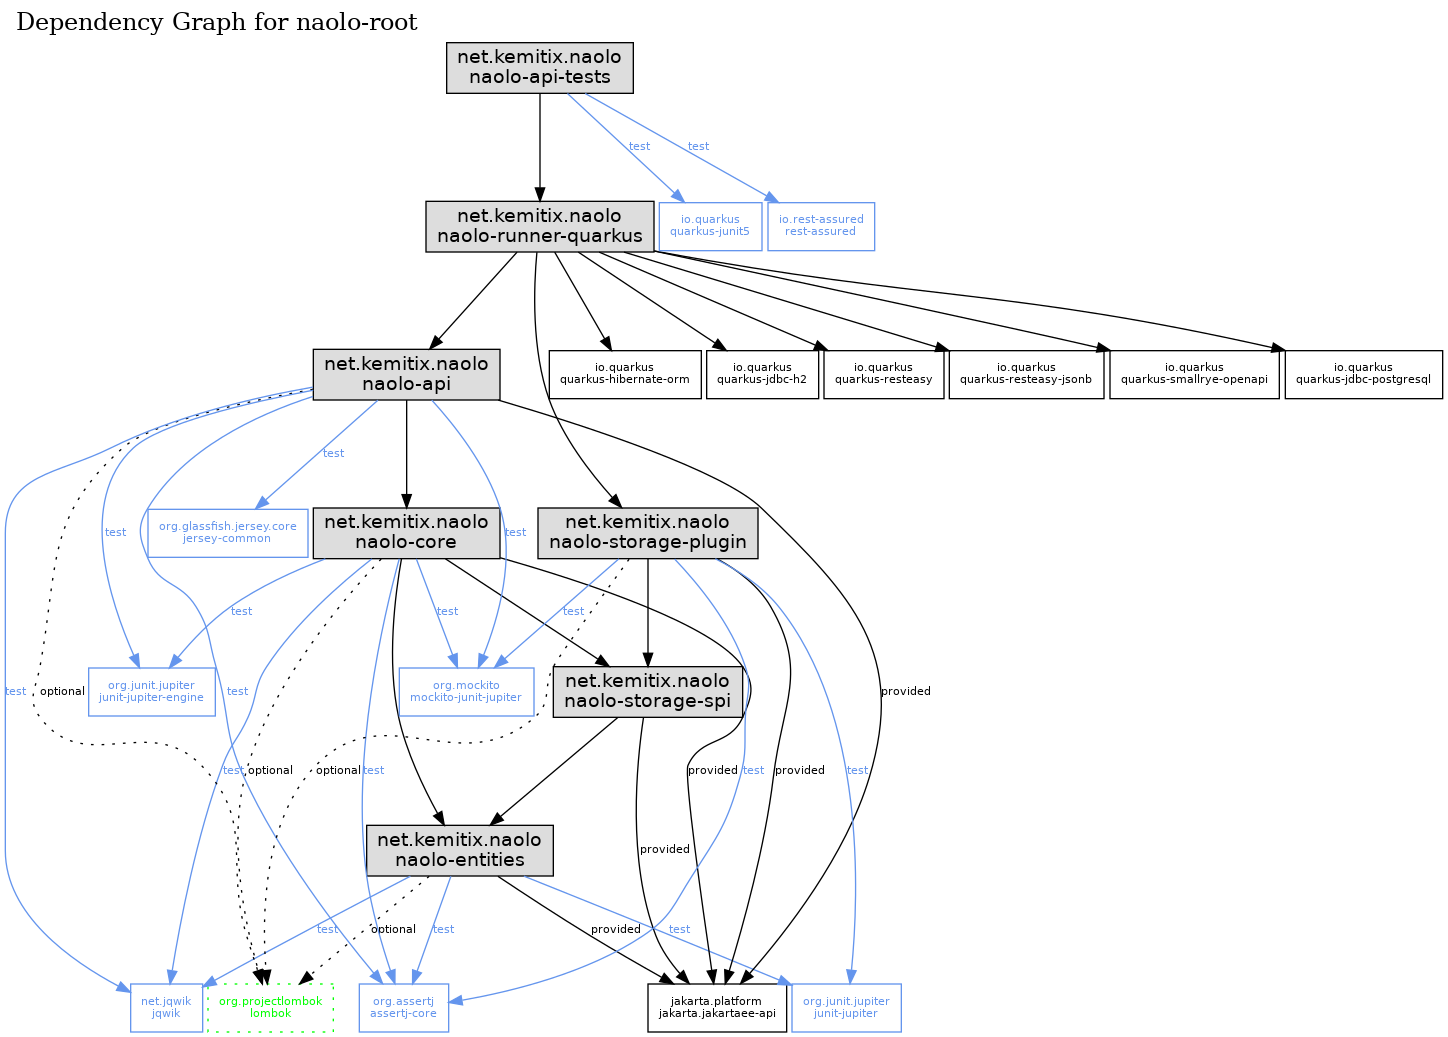
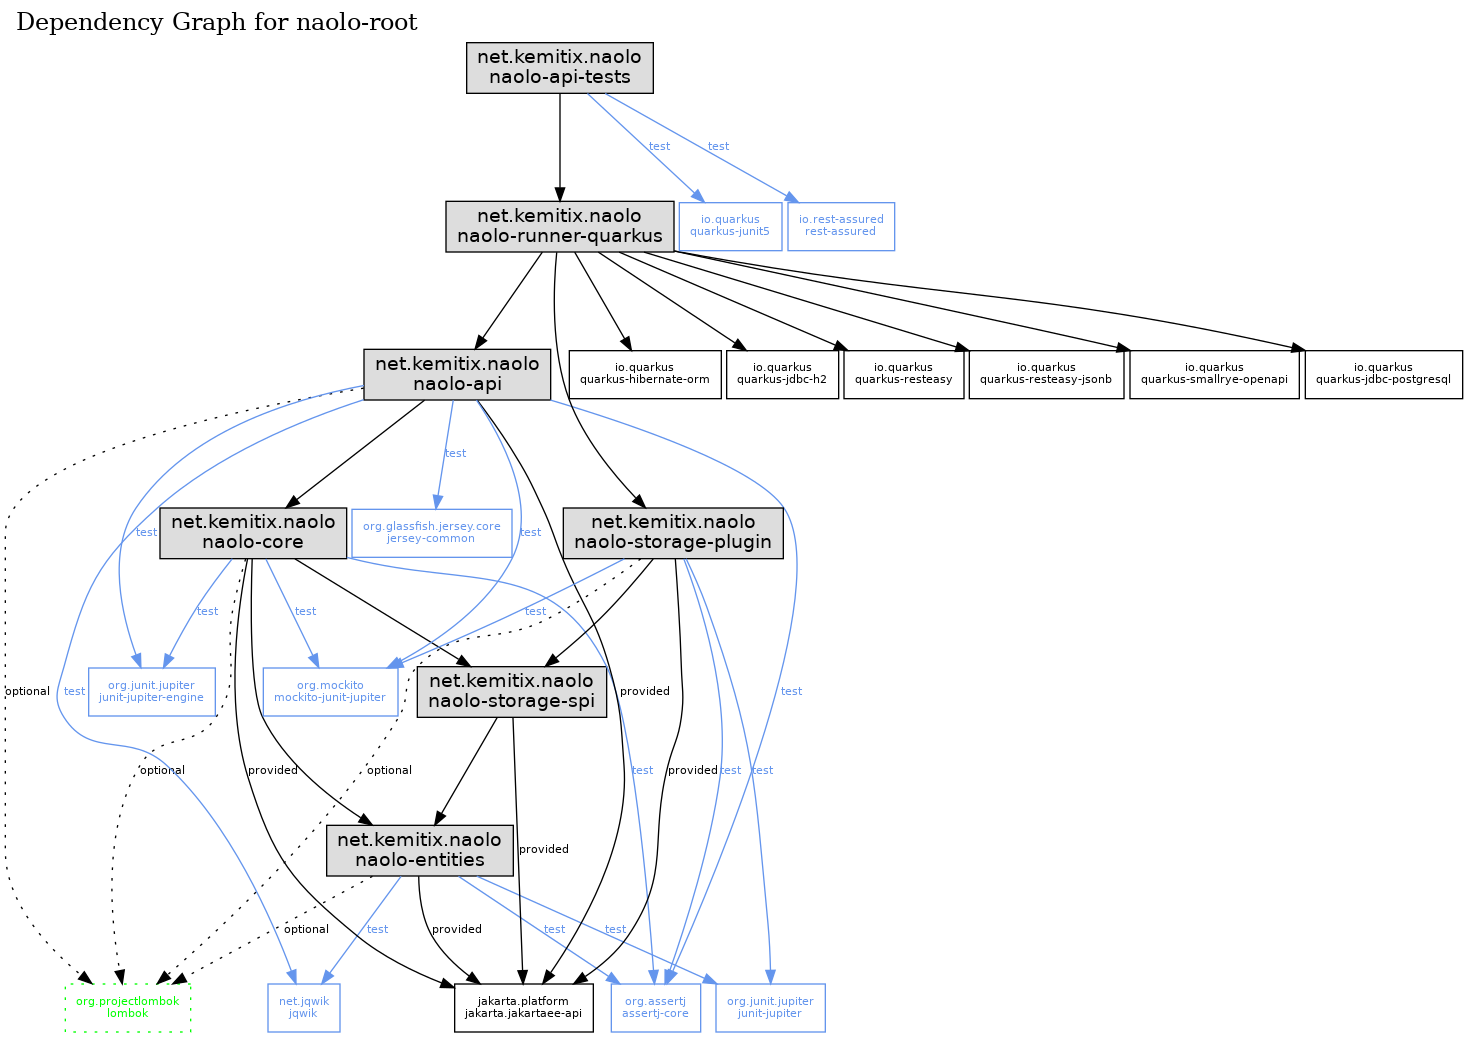
core: Remove dependecy upon jqwik
It was only being used to provide a Tuple.

diff --git a/core/src/test/java/net/kemitix/naolo/core/vets/ListAllVetsTest.java b/core/src/test/java/net/kemitix/naolo/core/vets/ListAllVetsTest.java
@@ -1,10 +1,7 @@
 package net.kemitix.naolo.core.vets;
 
-import net.jqwik.api.*;
-import net.jqwik.api.arbitraries.LongArbitrary;
-import net.jqwik.api.arbitraries.SizableArbitrary;
-import net.jqwik.api.arbitraries.StringArbitrary;
 import net.kemitix.naolo.core.StreamZipper;
+import net.kemitix.naolo.core.Tuple;
 import net.kemitix.naolo.entities.VetSpecialisation;
 import net.kemitix.naolo.entities.Veterinarian;
 import net.kemitix.naolo.storage.spi.VeterinarianRepository;
@@ -27,24 +24,6 @@ public class ListAllVetsTest implements WithAssertions {
 
     private final ListAllVets useCase = new ListAllVets(repository);
 
-    @Provide
-    public static Arbitrary<List<Veterinarian>> vets() {
-        final LongArbitrary ids = Arbitraries.longs();
-        final StringArbitrary names = Arbitraries.strings();
-        final SizableArbitrary<List<VetSpecialisation>> specialisations =
-                Arbitraries.of(VetSpecialisation.class)
-                        .list()
-                        .ofMinSize(0)
-                        .ofMaxSize(VetSpecialisation.values().length);
-        return Combinators.combine(ids, names, specialisations)
-                .as((id, name, vetSpecs) ->
-                        new Veterinarian()
-                                .withId(id)
-                                .withName(name)
-                                .withSpecialisations(vetSpecs))
-                .list();
-    }
-
     @Test
     @DisplayName("List all Vets")
     public void listAll() {
@@ -64,7 +43,7 @@ public class ListAllVetsTest implements WithAssertions {
         //when
         final ListAllVets.Response response = useCase.invoke(request());
         //then
-        final Stream<Tuple.Tuple2<Veterinarian, Veterinarian>> zipped =
+        final Stream<Tuple<Veterinarian, Veterinarian>> zipped =
                 StreamZipper.zip(vets, response.getVeterinarians(), Tuple::of);
         assertThat(zipped).hasSize(vets.size())
                 .allSatisfy(t -> {

diff --git a/core/src/test/java/net/kemitix/naolo/core/StreamZipperTest.java b/core/src/test/java/net/kemitix/naolo/core/StreamZipperTest.java
@@ -1,6 +1,5 @@
 package net.kemitix.naolo.core;
 
-import net.jqwik.api.Tuple;
 import org.assertj.core.api.WithAssertions;
 import org.junit.jupiter.api.DisplayName;
 import org.junit.jupiter.api.Test;
@@ -28,14 +27,14 @@ class StreamZipperTest implements WithAssertions {
         //when
         final List<String> strings = Arrays.asList("One", "Two", "Three");
         final List<Integer> integers = Arrays.asList(3, 2, 1);
-        final List<Tuple.Tuple2<String, Integer>> zipped =
+        final List<Tuple<String, Integer>> zipped =
                 StreamZipper.zip(strings, integers, Tuple::of).collect(Collectors.toList());
         //then
         assertThat(zipped)
-                .extracting(Tuple.Tuple2::get1)
+                .extracting(Tuple::get1)
                 .containsExactlyElementsOf(strings.subList(0, zipped.size()));
         assertThat(zipped)
-                .extracting(Tuple.Tuple2::get2)
+                .extracting(Tuple::get2)
                 .containsExactlyElementsOf(integers.subList(0, zipped.size()));
     }
 }

diff --git a/core/src/test/java/net/kemitix/naolo/core/Tuple.java b/core/src/test/java/net/kemitix/naolo/core/Tuple.java
@@ -1,0 +1,23 @@
+package net.kemitix.naolo.core;
+
+import lombok.AccessLevel;
+import lombok.AllArgsConstructor;
+
+@AllArgsConstructor(access = AccessLevel.PRIVATE)
+public class Tuple<A, B> {
+
+    private final A partA;
+    private final B partB;
+
+    public static <A, B> Tuple<A, B> of(final A a, final B b) {
+        return new Tuple<>(a, b);
+    }
+
+    public A get1() {
+        return partA;
+    }
+
+    public B get2() {
+        return partB;
+    }
+}
